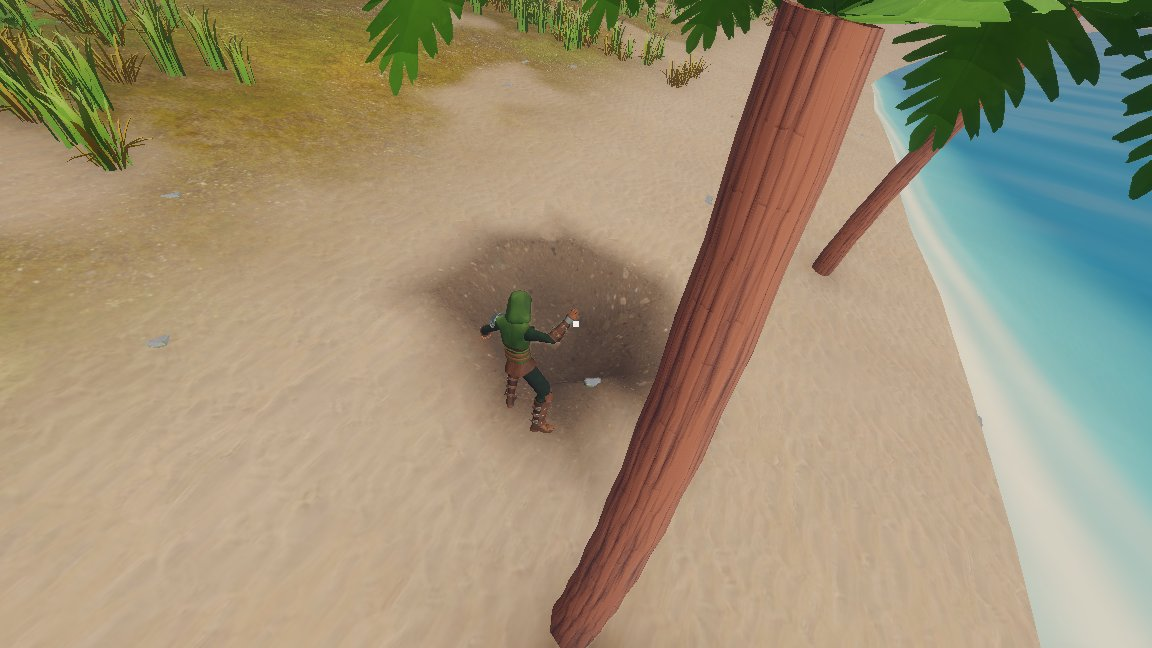
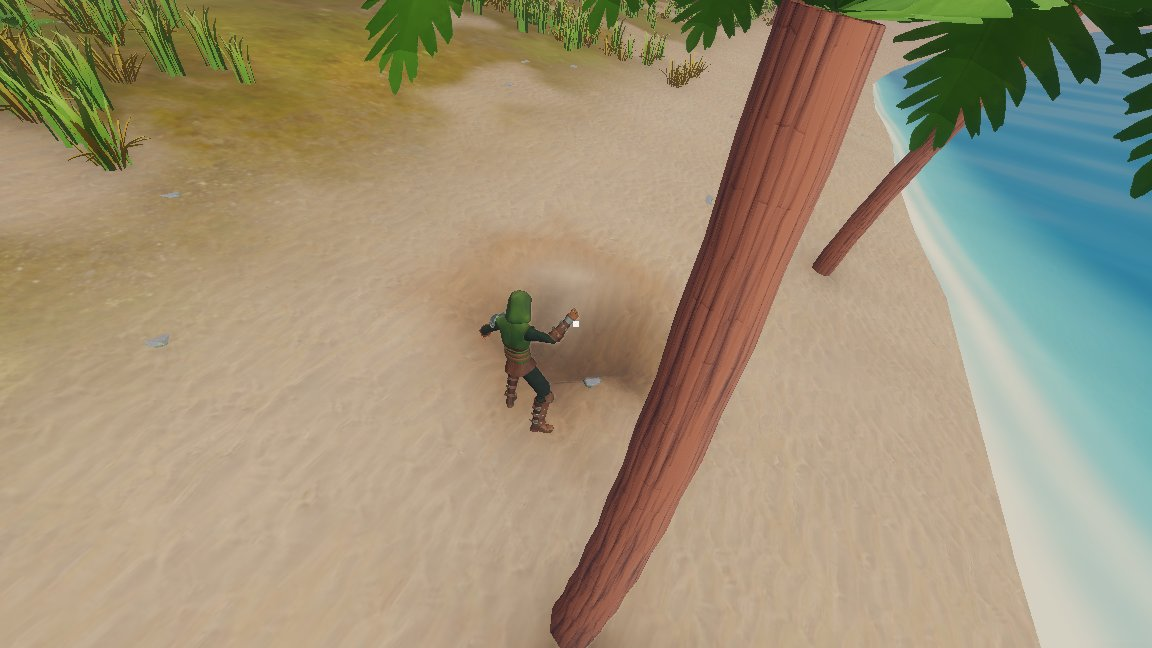
TER-1.2: на пляже в яме влажный песок, глубже земля
Новый индекс материала INDEX_WET_SAND: песок темнее и насыщеннее, с блеском.
Тронутый грунт красится по вокселям: на пляже не глубже 1,5 м от исходной
поверхности (её даёт генератор) и в насыпи — влажный песок, иначе земля.
Спека TER-S20, технический тест правила, кадры run-5…7 пересняты.

Claude-Session: https://claude.ai/code/session_01Vp2x9VFjxUHLVnSoBuqq9B

diff --git a/docs/engineering/terrain.md b/docs/engineering/terrain.md
@@ -33,13 +33,14 @@
 
 ### Материал по вокселям
 
-Сетка — `VoxelMesherTransvoxel` в режиме `TEXTURES_SINGLE_S4`: у каждого вокселя один индекс текстуры в канале `INDICES` (8 бит, задано `VoxelFormat`). Сетка кладёт в `CUSTOM1` до четырёх индексов (x) и их веса (y) по байту. Шейдер `terrain/terrain.gdshader` в вершине переводит их в доли трёх материалов, дальше доли интерполируются.
+Сетка — `VoxelMesherTransvoxel` в режиме `TEXTURES_SINGLE_S4`: у каждого вокселя один индекс текстуры в канале `INDICES` (8 бит, задано `VoxelFormat`). Сетка кладёт в `CUSTOM1` до четырёх индексов (x) и их веса (y) по байту. Шейдер `terrain/terrain.gdshader` в вершине переводит их в доли четырёх материалов, дальше доли интерполируются.
 
 | Индекс | Откуда | Что видно |
 |---|---|---|
 | 0 `INDEX_SURFACE` | Генератор: поверхность | Трава при нормали `y ≥ 0,78`, круче — камень; на пологом ниже 36,5 м (`SAND_TOP`) — песок пляжа. Шейдер смешивает в полосах ±0,07 по нормали и ±0,8 м по высоте |
 | 1 `INDEX_STONE` | Генератор: глубже высоты по карте больше 2,5 м или с грунтом на 3, 6 или 9 м выше — под навесом | Камень: пол и стены пещер |
-| 2 `INDEX_DIRT` | Копание и насыпание: шар радиусом 2,5 м вокруг центра правки (`MODE_SET` по каналу `INDICES`) | Земля |
+| 2 `INDEX_DIRT` | Копание и насыпание: воксели в шаре радиусом 2,5 м вокруг центра правки, кроме влажного песка | Земля |
+| 3 `INDEX_WET_SAND` | Копание и насыпание на пляже: воксели того же шара, у которых исходная поверхность столбца ниже `SAND_TOP` и воксель не глубже 1,5 м (`WET_SAND_DEPTH`) под ней; насыпь над поверхностью — тоже. Исходную поверхность `WorldTerrain` берёт у генератора: верхняя смена знака SDF в столбце ±16 м от центра правки | Влажный песок: песок с оттенком `wet_tint` — темнее и насыщеннее, шероховатость 0,5 вместо 0,95 |
 
 Правило продублировано для проверки: `WorldTerrain.ground_at(точка, нормаль)` читает индекс вокселя под поверхностью и применяет тот же порог, что шейдер. Пороги шейдеру передаёт `WorldTerrain`.
 
@@ -51,7 +52,7 @@
 
 `Digger` в `_unhandled_input`:
 - если `Builder.active`, мышь принадлежит строителю, и `Digger` ничего не делает;
-- действие `dig` (ЛКМ) — `WorldTerrain.dig`, `fill` (ПКМ) — `WorldTerrain.fill`: шар радиусом 1,5 м в точке прицела, затем земля в радиусе 2,5 м.
+- действие `dig` (ЛКМ) — `WorldTerrain.dig`, `fill` (ПКМ) — `WorldTerrain.fill`: шар радиусом 1,5 м в точке прицела, затем земля или влажный песок в радиусе 2,5 м (по вокселям, `set_voxel` по каналу `INDICES`).
 
 Действия `dig` и `fill` отдельные, хотя кнопки те же, что у `build_place` и `build_remove`. Это разные команды разных режимов: их можно переназначить порознь, а строитель и копатель не зависят друг от друга.
 
@@ -93,6 +94,6 @@
 
 - Коллизия есть только в LOD0 рядом с наблюдателем. Объектам и существам вдали от героя нужна своя логика.
 - При вокселе 1 м и шаре 1,5 м края ям гранёные.
-- Пещерный камень определяет генератор по форме мира. Грунт, открытый копанием, — земля, даже если это пол пещеры.
+- Пещерный камень определяет генератор по форме мира. Грунт, открытый копанием, — земля (на пляже у поверхности — влажный песок), даже если это пол пещеры.
 - Вид материала без окна не проверяется: прогон проверяет правило грунта и параметры шейдера, а цвета на экране — ручная проверка с окном.
 - Библиотеку поддерживает в основном один автор. Формат сохранений связан с её версией, поэтому версию обновляем осознанно.
